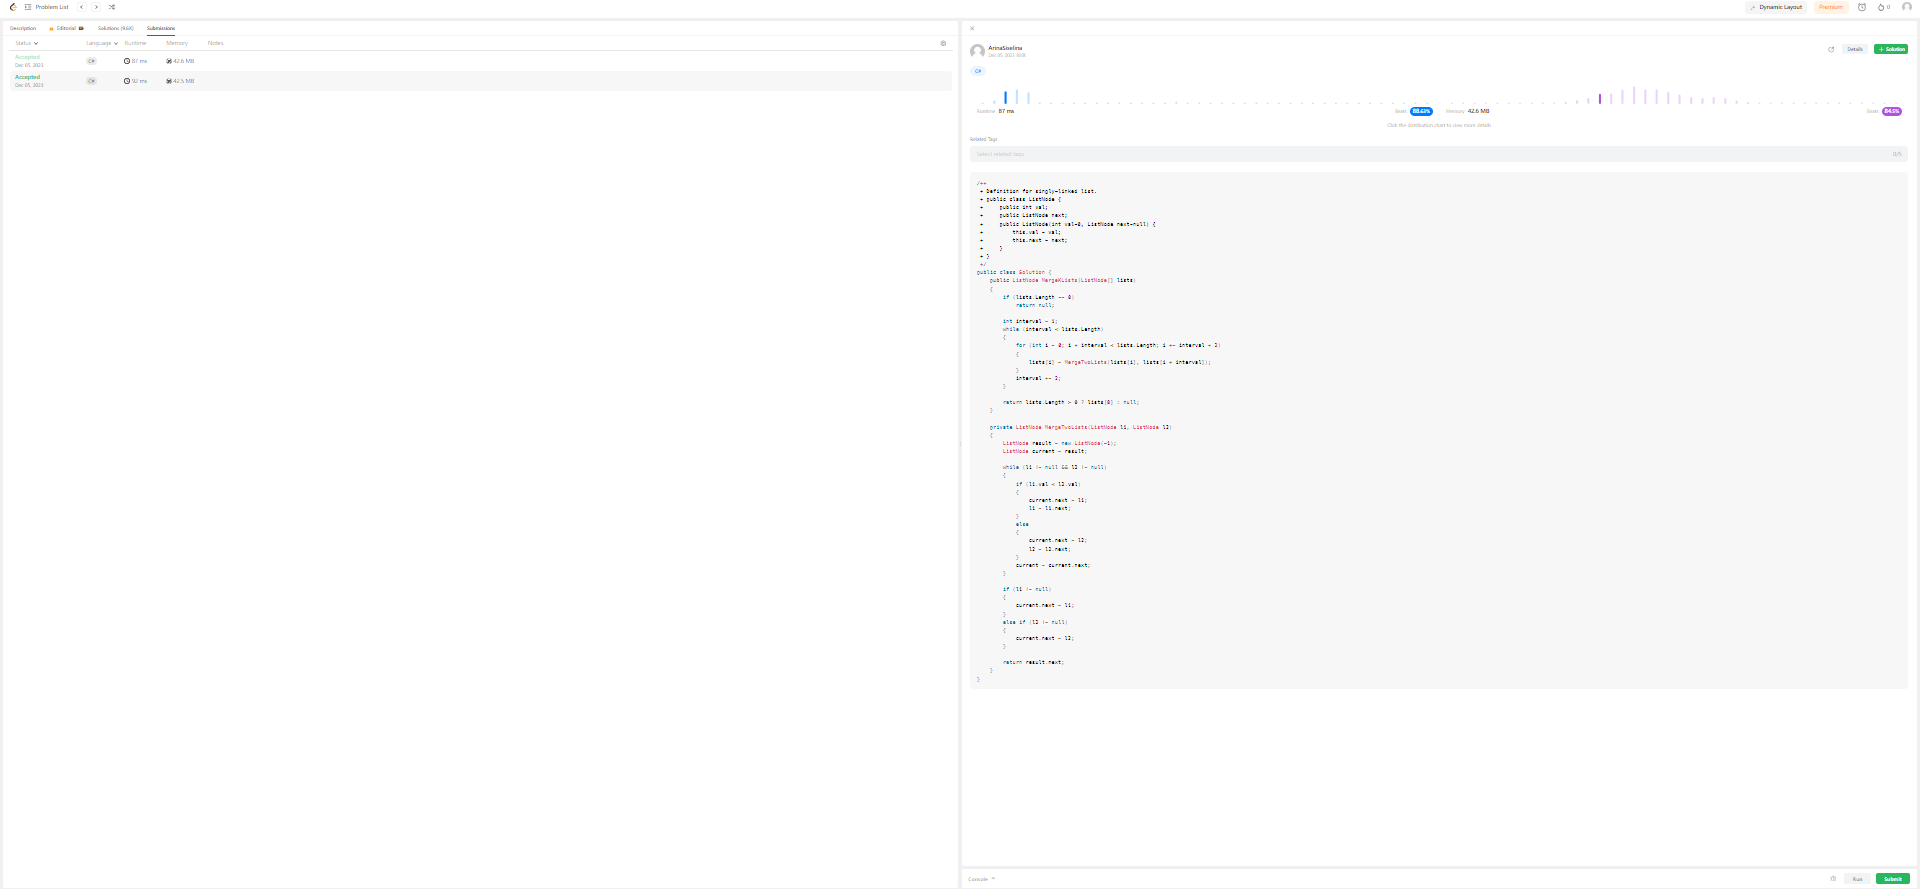
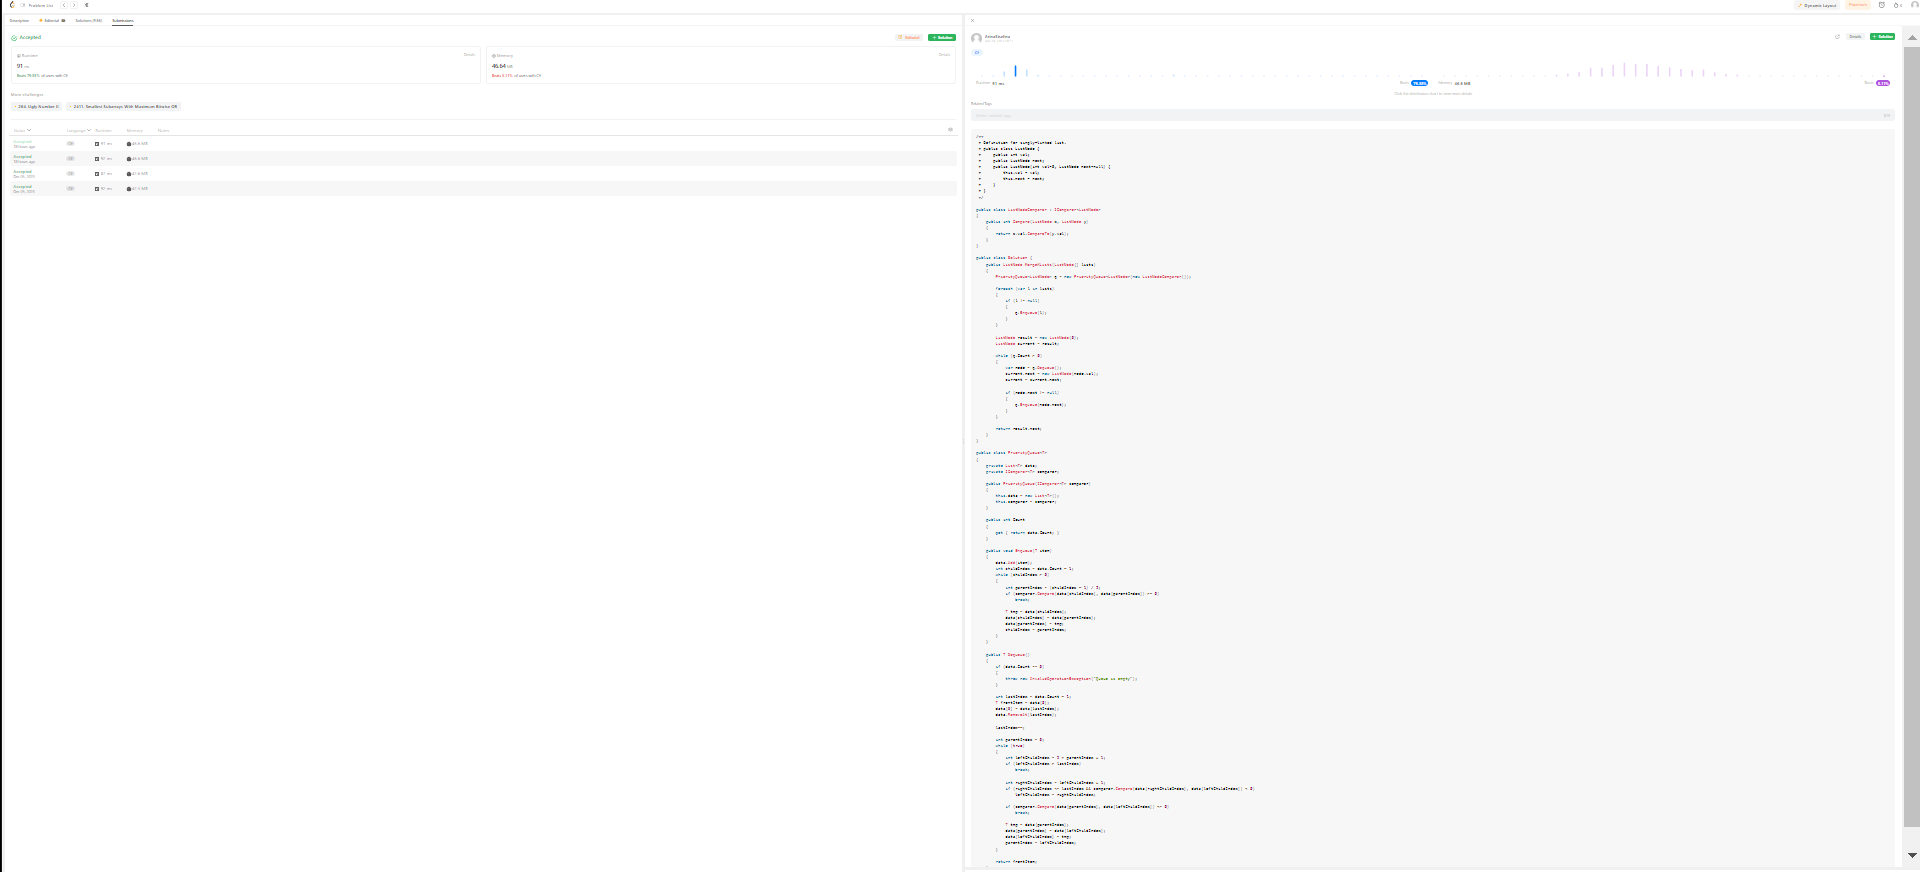
Solve MergeKSortedLists with the help of PriorityQueue

diff --git a/ScnSoft-Education/LeetCodeTraining/MergeKSortedLists-23/MergeKSortedListSolution.cs b/ScnSoft-Education/LeetCodeTraining/MergeKSortedLists-23/MergeKSortedListSolution.cs
@@ -1,0 +1,173 @@
+namespace LeetCodeTraining.MergeKSortedLists
+{
+    //https://leetcode.com/problems/merge-k-sorted-lists/
+    public class ListNode
+    {
+        public int val;
+        public ListNode next;
+
+        public ListNode(int val = 0, ListNode next = null)
+        {
+            this.val = val;
+            this.next = next;
+        }
+
+        public ListNode(int[] values)
+        {
+            if (values == null || values.Length == 0)
+            {
+                return;
+            }
+
+            this.val = values[0];
+            ListNode current = this;
+
+            for (int i = 1; i < values.Length; i++)
+            {
+                current.next = new ListNode(values[i]);
+                current = current.next;
+            }
+        }
+
+        public override bool Equals(object obj)
+        {
+            if (obj == null || GetType() != obj.GetType())
+            {
+                return false;
+            }
+
+            ListNode other = (ListNode)obj;
+            ListNode currentThis = this;
+            ListNode currentOther = other;
+
+            while (currentThis != null && currentOther != null)
+            {
+                if (currentThis.val != currentOther.val)
+                {
+                    return false;
+                }
+                currentThis = currentThis.next;
+                currentOther = currentOther.next;
+            }
+
+            return currentThis == null && currentOther == null;
+        }
+
+        public override int GetHashCode()
+        {
+            return base.GetHashCode();
+        }
+    }
+
+    public class ListNodeComparer : IComparer<ListNode>
+    {
+        public int Compare(ListNode x, ListNode y)
+        {
+            return x.val.CompareTo(y.val);
+        }
+    }
+
+    public class MergeKSortedListsSolution
+    {
+        public static ListNode MergeKLists(ListNode[] lists)
+        {
+            PriorityQueue<ListNode> q = new PriorityQueue<ListNode>(new ListNodeComparer());
+
+            foreach (var l in lists)
+            {
+                if (l != null)
+                {
+                    q.Enqueue(l);
+                }
+            }
+
+            ListNode result = new ListNode(0);
+            ListNode current = result;
+
+            while (q.Count > 0)
+            {
+                var node = q.Dequeue();
+                current.next = new ListNode(node.val);
+                current = current.next;
+
+                if (node.next != null)
+                {
+                    q.Enqueue(node.next);
+                }
+            }
+
+            return result.next;
+        }
+    }
+
+    public class PriorityQueue<T>
+    {
+        private List<T> data;
+        private IComparer<T> comparer;
+
+        public PriorityQueue(IComparer<T> comparer)
+        {
+            this.data = new List<T>();
+            this.comparer = comparer;
+        }
+
+        public int Count
+        {
+            get { return data.Count; }
+        }
+
+        public void Enqueue(T item)
+        {
+            data.Add(item);
+            int childIndex = data.Count - 1;
+            while (childIndex > 0)
+            {
+                int parentIndex = (childIndex - 1) / 2;
+                if (comparer.Compare(data[childIndex], data[parentIndex]) >= 0)
+                    break;
+
+                T tmp = data[childIndex];
+                data[childIndex] = data[parentIndex];
+                data[parentIndex] = tmp;
+                childIndex = parentIndex;
+            }
+        }
+
+        public T Dequeue()
+        {
+            if (data.Count == 0)
+            {
+                throw new InvalidOperationException("Queue is empty");
+            }
+
+            int lastIndex = data.Count - 1;
+            T frontItem = data[0];
+            data[0] = data[lastIndex];
+            data.RemoveAt(lastIndex);
+
+            lastIndex--;
+
+            int parentIndex = 0;
+            while (true)
+            {
+                int leftChildIndex = 2 * parentIndex + 1;
+                if (leftChildIndex > lastIndex)
+                    break;
+
+                int rightChildIndex = leftChildIndex + 1;
+                if (rightChildIndex <= lastIndex && comparer.Compare(data[rightChildIndex], data[leftChildIndex]) < 0)
+                    leftChildIndex = rightChildIndex;
+
+                if (comparer.Compare(data[parentIndex], data[leftChildIndex]) <= 0)
+                    break;
+
+                T tmp = data[parentIndex];
+                data[parentIndex] = data[leftChildIndex];
+                data[leftChildIndex] = tmp;
+                parentIndex = leftChildIndex;
+            }
+
+            return frontItem;
+        }
+    }
+}
